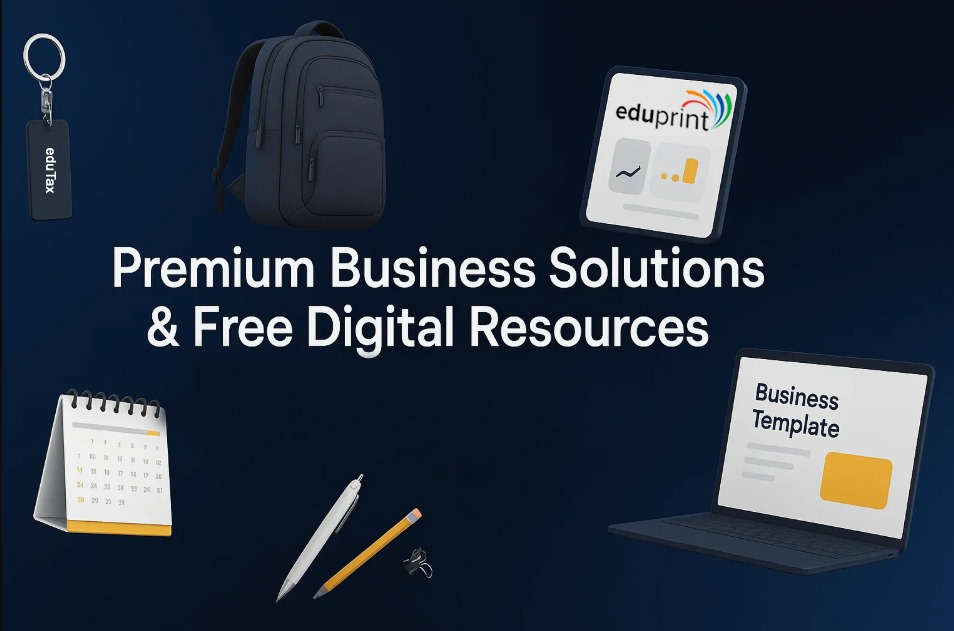
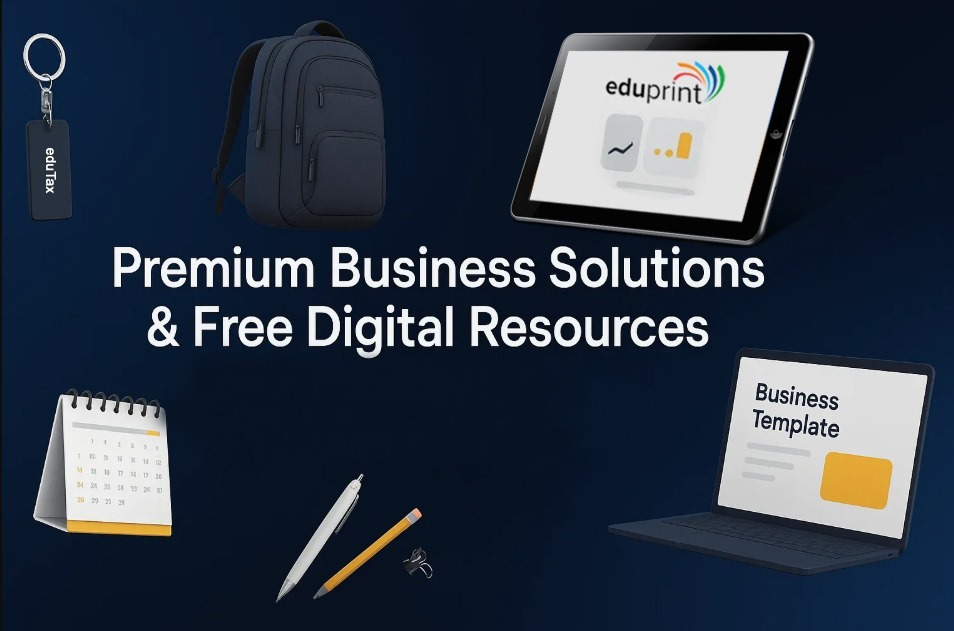
changed home image and fixed video gallery download

Changed region(s): [[0.5168, 0.0301, 0.8512, 0.3914]]

diff --git a/Frontend/src/components/VideoGallery.tsx b/Frontend/src/components/VideoGallery.tsx
@@ -3,7 +3,7 @@ import { motion, AnimatePresence } from "framer-motion";
 import VideoModal from "../components/ui/videoModal";
 import { groupedVideos } from "../data/promotion_videos";
 import { FiDownload } from "react-icons/fi";
-
+import Swal from "sweetalert2";
 
 export interface Video {
   id: number;
@@ -36,15 +36,42 @@ const VideoGallery: React.FC = () => {
     setTimeout(() => setSelectedVideo(null), 300);
   };
 
-    // 📥 Handle video download
-  const handleDownload = (url: string, title: string) => {
+  // 📥 Handle video download
+  const handleDownload = async (url: string, title: string) => {
     if (!url) return;
-    const link = document.createElement("a");
-    link.href = url;
-    link.download = `${title || "video"}.mp4`;
-    document.body.appendChild(link);
-    link.click();
-    document.body.removeChild(link);
+
+    try {
+      const response = await fetch(url);
+      const blob = await response.blob();
+      const objectUrl = window.URL.createObjectURL(blob);
+
+      const link = document.createElement("a");
+      link.href = objectUrl;
+      link.download = `${title.replace(/\s+/g, "_")}.mp4`;
+      document.body.appendChild(link);
+      link.click();
+      document.body.removeChild(link);
+      window.URL.revokeObjectURL(objectUrl);
+
+      Swal.fire({
+        icon: "success",
+        title: "Download Started!",
+        text: "Your video is being downloaded successfully.",
+        timer: 2500, // auto close after 3 seconds
+        showConfirmButton: false,
+        timerProgressBar: true,
+      });
+    } catch (error) {
+      Swal.fire({
+        icon: "error",
+        title: "Download Failed!",
+        text: "Unable to download the video. Please try again.",
+        timer: 2500, // auto close after 3 seconds
+        showConfirmButton: false,
+        timerProgressBar: true,
+
+      });
+    }
   };
 
 
@@ -160,28 +187,28 @@ const VideoGallery: React.FC = () => {
                   </div>
 
                   {/* 📘 Info below thumbnail */}
-                <div className="mt-3 flex items-start justify-between">
-                  <div className="flex-1 min-w-0">
-                    <h3 className="text-base font-semibold text-gray-800 truncate">
-                      {video.title}
-                    </h3>
-                    <p className="text-xs text-gray-600 mt-1 line-clamp-2 leading-snug">
-                      {video.description}
-                    </p>
-                  </div>
+                  <div className="mt-3 flex items-start justify-between">
+                    <div className="flex-1 min-w-0">
+                      <h3 className="text-base font-semibold text-gray-800 truncate">
+                        {video.title}
+                      </h3>
+                      <p className="text-xs text-gray-600 mt-1 line-clamp-2 leading-snug">
+                        {video.description}
+                      </p>
+                    </div>
 
-                  {/* ⬇ Download Button */}
-                  <button
-                   onClick={(e) => {
-                      e.stopPropagation(); // prevent modal from opening
-                      handleDownload(video.videoUrl, video.title);
-                    }}
-                    className="flex-shrink-0 ml-3 flex items-center gap-1  px-3 py-1.5 "
-                  >
-                    <FiDownload className="w-3.5 h-3.5" />
-                    <span className="text-xs font-medium"></span>
-                  </button>
-                </div>
+                    {/* ⬇ Download Button */}
+                    <button
+                      onClick={(e) => {
+                        e.stopPropagation(); // prevent modal from opening
+                        handleDownload(video.videoUrl, video.title);
+                      }}
+                      className="flex-shrink-0 ml-3 flex items-center gap-1  px-3 py-1.5 "
+                    >
+                      <FiDownload className="w-3.5 h-3.5" />
+                      <span className="text-xs font-medium"></span>
+                    </button>
+                  </div>
 
                 </motion.div>
               ))}

diff --git a/Frontend/src/components/ui/videoModal.tsx b/Frontend/src/components/ui/videoModal.tsx
@@ -51,14 +51,20 @@ const VideoModal: React.FC<VideoModalProps> = ({ isOpen, onClose, video }) => {
         icon: "success",
         title: "Download Started!",
         text: "Your video is being downloaded successfully.",
-        confirmButtonColor: "#2C4E86",
+        timer: 2500, // auto close after 3 seconds
+        showConfirmButton: false,
+        timerProgressBar: true,
+
       });
     } catch (error) {
       Swal.fire({
         icon: "error",
         title: "Download Failed!",
         text: "Unable to download the video. Please try again.",
-        confirmButtonColor: "#2C4E86",
+        timer: 2500, // auto close after 3 seconds
+        showConfirmButton: false,
+        timerProgressBar: true,
+
       });
     }
   };
